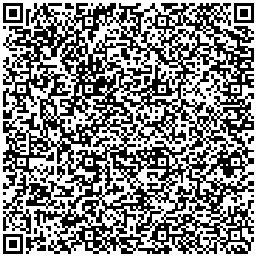
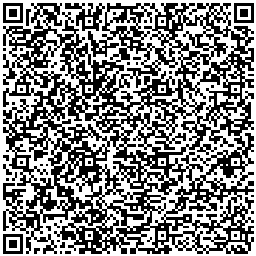
更新

diff --git a/README.md b/README.md
@@ -17,7 +17,7 @@
 
 | 小程序  | 二维码 |
 | ------------- | ------------- |
-| [勇者](https://share.dagouzhi.com/#/pages/index/index?data=%7B%22type%22%3A%22game%22%2C%22rotate%22%3A%22landscape%22%2C%22name%22%3A%22%E5%8B%87%E8%80%85%22%2C%22projectname%22%3A%22%E5%8B%87%E8%80%85%22%2C%22appid%22%3A%22fe27d0d96e8fe86bce2eb341386c9f37%22%2C%22appUrlConfig%22%3A%22https%3A%2F%2Fraw.githubusercontent.com%2Fhtyf-mp-community%2Fdemo-game%2Fdist%2Fapp.json%22%2C%22zipUrl%22%3A%22https%3A%2F%2Fraw.githubusercontent.com%2Fhtyf-mp-community%2Fdemo-game%2Fdist%2Fdist.%5BPLATFORM%5D.dgz%22%2C%22version%22%3A%221.0.10%22%2C%22engines%22%3A%222.0.0%22%7D)  | [![小程序码](./v2/game/latest/qrcode.png)](https://share.dagouzhi.com/#/pages/index/index?data=%7B%22type%22%3A%22game%22%2C%22rotate%22%3A%22landscape%22%2C%22name%22%3A%22%E5%8B%87%E8%80%85%22%2C%22projectname%22%3A%22%E5%8B%87%E8%80%85%22%2C%22appid%22%3A%22fe27d0d96e8fe86bce2eb341386c9f37%22%2C%22appUrlConfig%22%3A%22https%3A%2F%2Fraw.githubusercontent.com%2Fhtyf-mp-community%2Fdemo-game%2Fdist%2Fapp.json%22%2C%22zipUrl%22%3A%22https%3A%2F%2Fraw.githubusercontent.com%2Fhtyf-mp-community%2Fdemo-game%2Fdist%2Fdist.%5BPLATFORM%5D.dgz%22%2C%22version%22%3A%221.0.10%22%2C%22engines%22%3A%222.0.0%22%7D) |
+| [勇者](https://share.dagouzhi.com/#/pages/index/index?data=%7B%22type%22%3A%22game%22%2C%22rotate%22%3A%22landscape%22%2C%22name%22%3A%22%E5%8B%87%E8%80%85%22%2C%22projectname%22%3A%22%E5%8B%87%E8%80%85%22%2C%22appid%22%3A%22fe27d0d96e8fe86bce2eb341386c9f37%22%2C%22appUrlConfig%22%3A%22https%3A%2F%2Fraw.githubusercontent.com%2Fhtyf-mp-community%2Fdemo-game%2Fmain%2Fdist%2Fapp.json%22%2C%22zipUrl%22%3A%22https%3A%2F%2Fraw.githubusercontent.com%2Fhtyf-mp-community%2Fdemo-game%2Fmain%2Fdist%2Fdist.%5BPLATFORM%5D.dgz%22%2C%22version%22%3A%221.0.12%22%2C%22engines%22%3A%222.0.0%22%7D)  | [![小程序码](./v2/game/latest/qrcode.png)](https://share.dagouzhi.com/#/pages/index/index?data=%7B%22type%22%3A%22game%22%2C%22rotate%22%3A%22landscape%22%2C%22name%22%3A%22%E5%8B%87%E8%80%85%22%2C%22projectname%22%3A%22%E5%8B%87%E8%80%85%22%2C%22appid%22%3A%22fe27d0d96e8fe86bce2eb341386c9f37%22%2C%22appUrlConfig%22%3A%22https%3A%2F%2Fraw.githubusercontent.com%2Fhtyf-mp-community%2Fdemo-game%2Fmain%2Fdist%2Fapp.json%22%2C%22zipUrl%22%3A%22https%3A%2F%2Fraw.githubusercontent.com%2Fhtyf-mp-community%2Fdemo-game%2Fmain%2Fdist%2Fdist.%5BPLATFORM%5D.dgz%22%2C%22version%22%3A%221.0.12%22%2C%22engines%22%3A%222.0.0%22%7D) |
 | [动漫基地](https://share.dagouzhi.com/#/pages/index/index?data=%7B%22type%22%3A%22app%22%2C%22engines%22%3A%222.0.0%22%2C%22name%22%3A%22%E5%8A%A8%E6%BC%AB%E5%9F%BA%E5%9C%B0%22%2C%22appid%22%3A%22plugin_animation%22%2C%22version%22%3A%220.0.28%22%2C%22appUrlConfig%22%3A%22https%3A%2F%2Fraw.githubusercontent.com%2Fhtyf-mp-community%2Fdemo%2Fmain%2Fv2%2Fplugin_animation%2Flatest%2Fapp.json%22%2C%22zipUrl%22%3A%22https%3A%2F%2Fraw.githubusercontent.com%2Fhtyf-mp-community%2Fdemo%2Fmain%2Fv2%2Fplugin_animation%2Flatest%2Fdist.dgz%22%7D)  | [![小程序码](./v2/plugin_animation/latest/qrcode.png)](https://share.dagouzhi.com/#/pages/index/index?data=%7B%22type%22%3A%22app%22%2C%22engines%22%3A%222.0.0%22%2C%22name%22%3A%22%E5%8A%A8%E6%BC%AB%E5%9F%BA%E5%9C%B0%22%2C%22appid%22%3A%22plugin_animation%22%2C%22version%22%3A%220.0.28%22%2C%22appUrlConfig%22%3A%22https%3A%2F%2Fraw.githubusercontent.com%2Fhtyf-mp-community%2Fdemo%2Fmain%2Fv2%2Fplugin_animation%2Flatest%2Fapp.json%22%2C%22zipUrl%22%3A%22https%3A%2F%2Fraw.githubusercontent.com%2Fhtyf-mp-community%2Fdemo%2Fmain%2Fv2%2Fplugin_animation%2Flatest%2Fdist.dgz%22%7D) |
 | [直播基地](https://share.dagouzhi.com/#/pages/index/index?data=%7B%22type%22%3A%22app%22%2C%22engines%22%3A%222.0.0%22%2C%22name%22%3A%22%E7%9B%B4%E6%92%AD%E5%9F%BA%E5%9C%B0%22%2C%22appid%22%3A%22plugin_live%22%2C%22version%22%3A%220.0.26%22%2C%22appUrlConfig%22%3A%22https%3A%2F%2Fraw.githubusercontent.com%2Fhtyf-mp-community%2Fdemo%2Fmain%2Fv2%2Fplugin_live%2Flatest%2Fapp.json%22%2C%22zipUrl%22%3A%22https%3A%2F%2Fraw.githubusercontent.com%2Fhtyf-mp-community%2Fdemo%2Fmain%2Fv2%2Fplugin_live%2Flatest%2Fdist.dgz%22%7D)  | [![小程序码](./v2/plugin_live/latest/qrcode.png)](https://share.dagouzhi.com/#/pages/index/index?data=%7B%22type%22%3A%22app%22%2C%22engines%22%3A%222.0.0%22%2C%22name%22%3A%22%E7%9B%B4%E6%92%AD%E5%9F%BA%E5%9C%B0%22%2C%22appid%22%3A%22plugin_live%22%2C%22version%22%3A%220.0.26%22%2C%22appUrlConfig%22%3A%22https%3A%2F%2Fraw.githubusercontent.com%2Fhtyf-mp-community%2Fdemo%2Fmain%2Fv2%2Fplugin_live%2Flatest%2Fapp.json%22%2C%22zipUrl%22%3A%22https%3A%2F%2Fraw.githubusercontent.com%2Fhtyf-mp-community%2Fdemo%2Fmain%2Fv2%2Fplugin_live%2Flatest%2Fdist.dgz%22%7D) |
 | [漫画基地](https://share.dagouzhi.com/#/pages/index/index?data=%7B%22type%22%3A%22app%22%2C%22engines%22%3A%222.0.0%22%2C%22name%22%3A%22%E6%BC%AB%E7%94%BB%E5%9F%BA%E5%9C%B0%22%2C%22appid%22%3A%22plugin_manga%22%2C%22version%22%3A%220.0.58%22%2C%22appUrlConfig%22%3A%22https%3A%2F%2Fraw.githubusercontent.com%2Fhtyf-mp-community%2Fdemo%2Fmain%2Fv2%2Fplugin_manga%2Flatest%2Fapp.json%22%2C%22zipUrl%22%3A%22https%3A%2F%2Fraw.githubusercontent.com%2Fhtyf-mp-community%2Fdemo%2Fmain%2Fv2%2Fplugin_manga%2Flatest%2Fdist.dgz%22%7D)  | [![小程序码](./v2/plugin_manga/latest/qrcode.png)](https://share.dagouzhi.com/#/pages/index/index?data=%7B%22type%22%3A%22app%22%2C%22engines%22%3A%222.0.0%22%2C%22name%22%3A%22%E6%BC%AB%E7%94%BB%E5%9F%BA%E5%9C%B0%22%2C%22appid%22%3A%22plugin_manga%22%2C%22version%22%3A%220.0.58%22%2C%22appUrlConfig%22%3A%22https%3A%2F%2Fraw.githubusercontent.com%2Fhtyf-mp-community%2Fdemo%2Fmain%2Fv2%2Fplugin_manga%2Flatest%2Fapp.json%22%2C%22zipUrl%22%3A%22https%3A%2F%2Fraw.githubusercontent.com%2Fhtyf-mp-community%2Fdemo%2Fmain%2Fv2%2Fplugin_manga%2Flatest%2Fdist.dgz%22%7D) |
